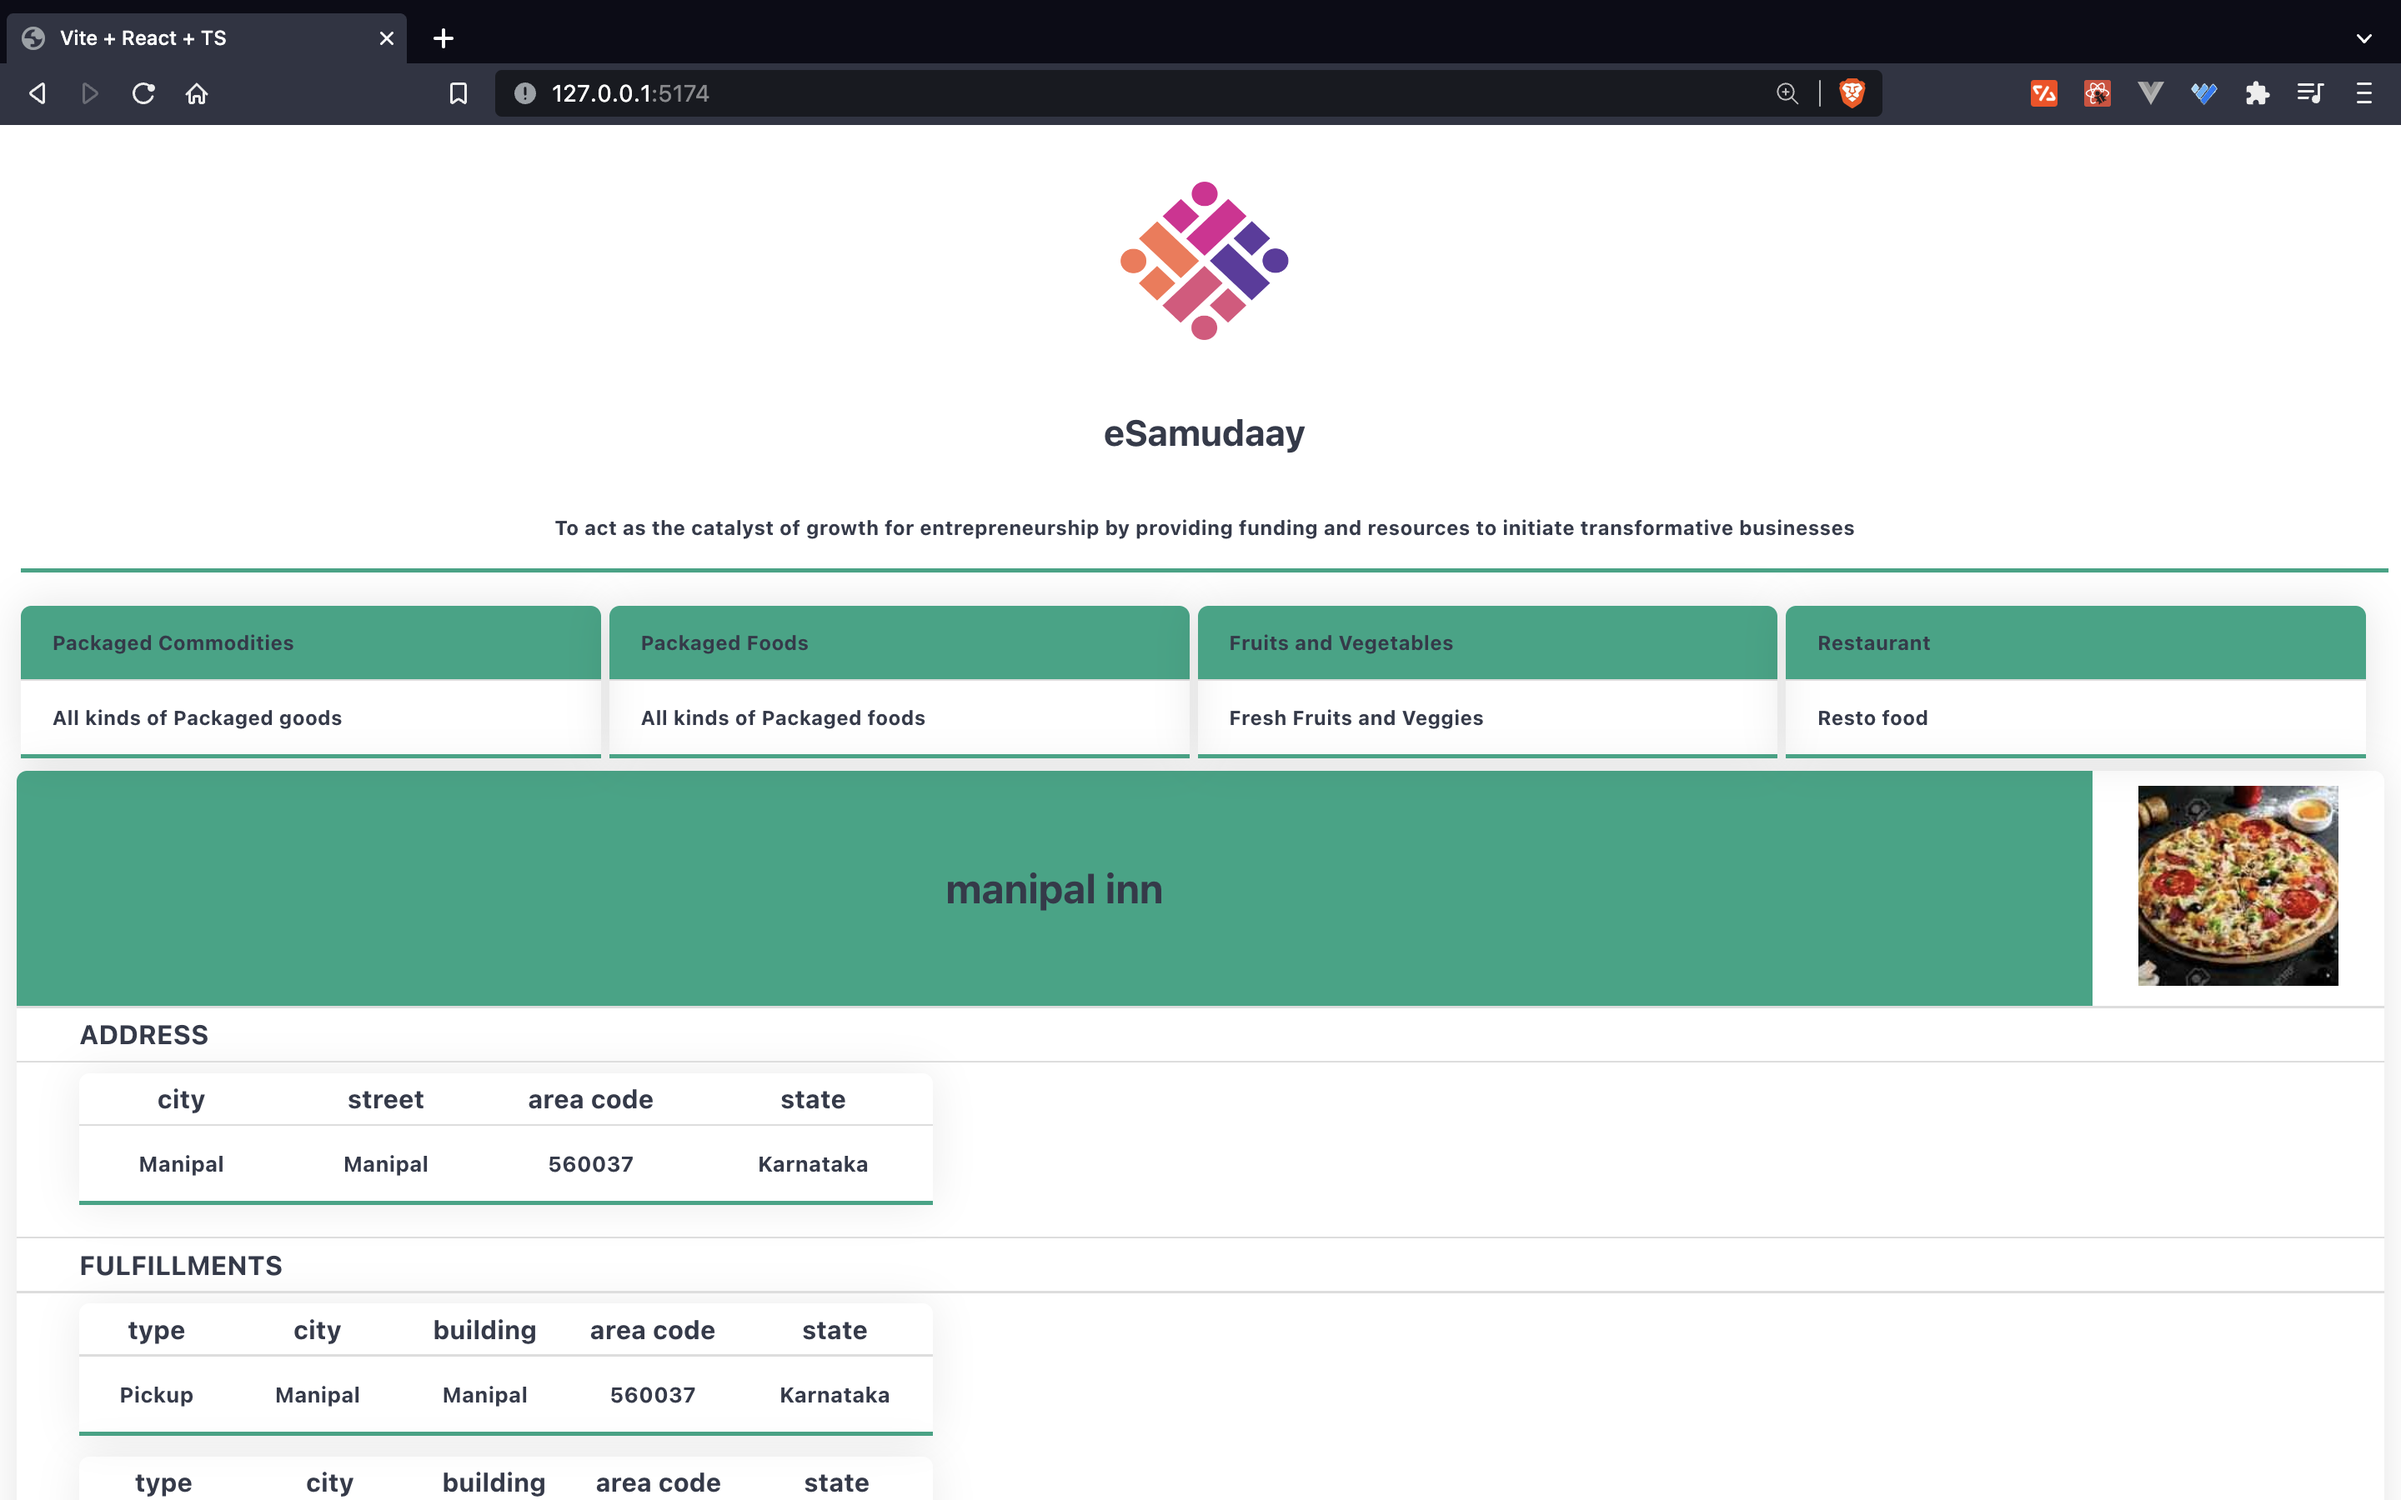
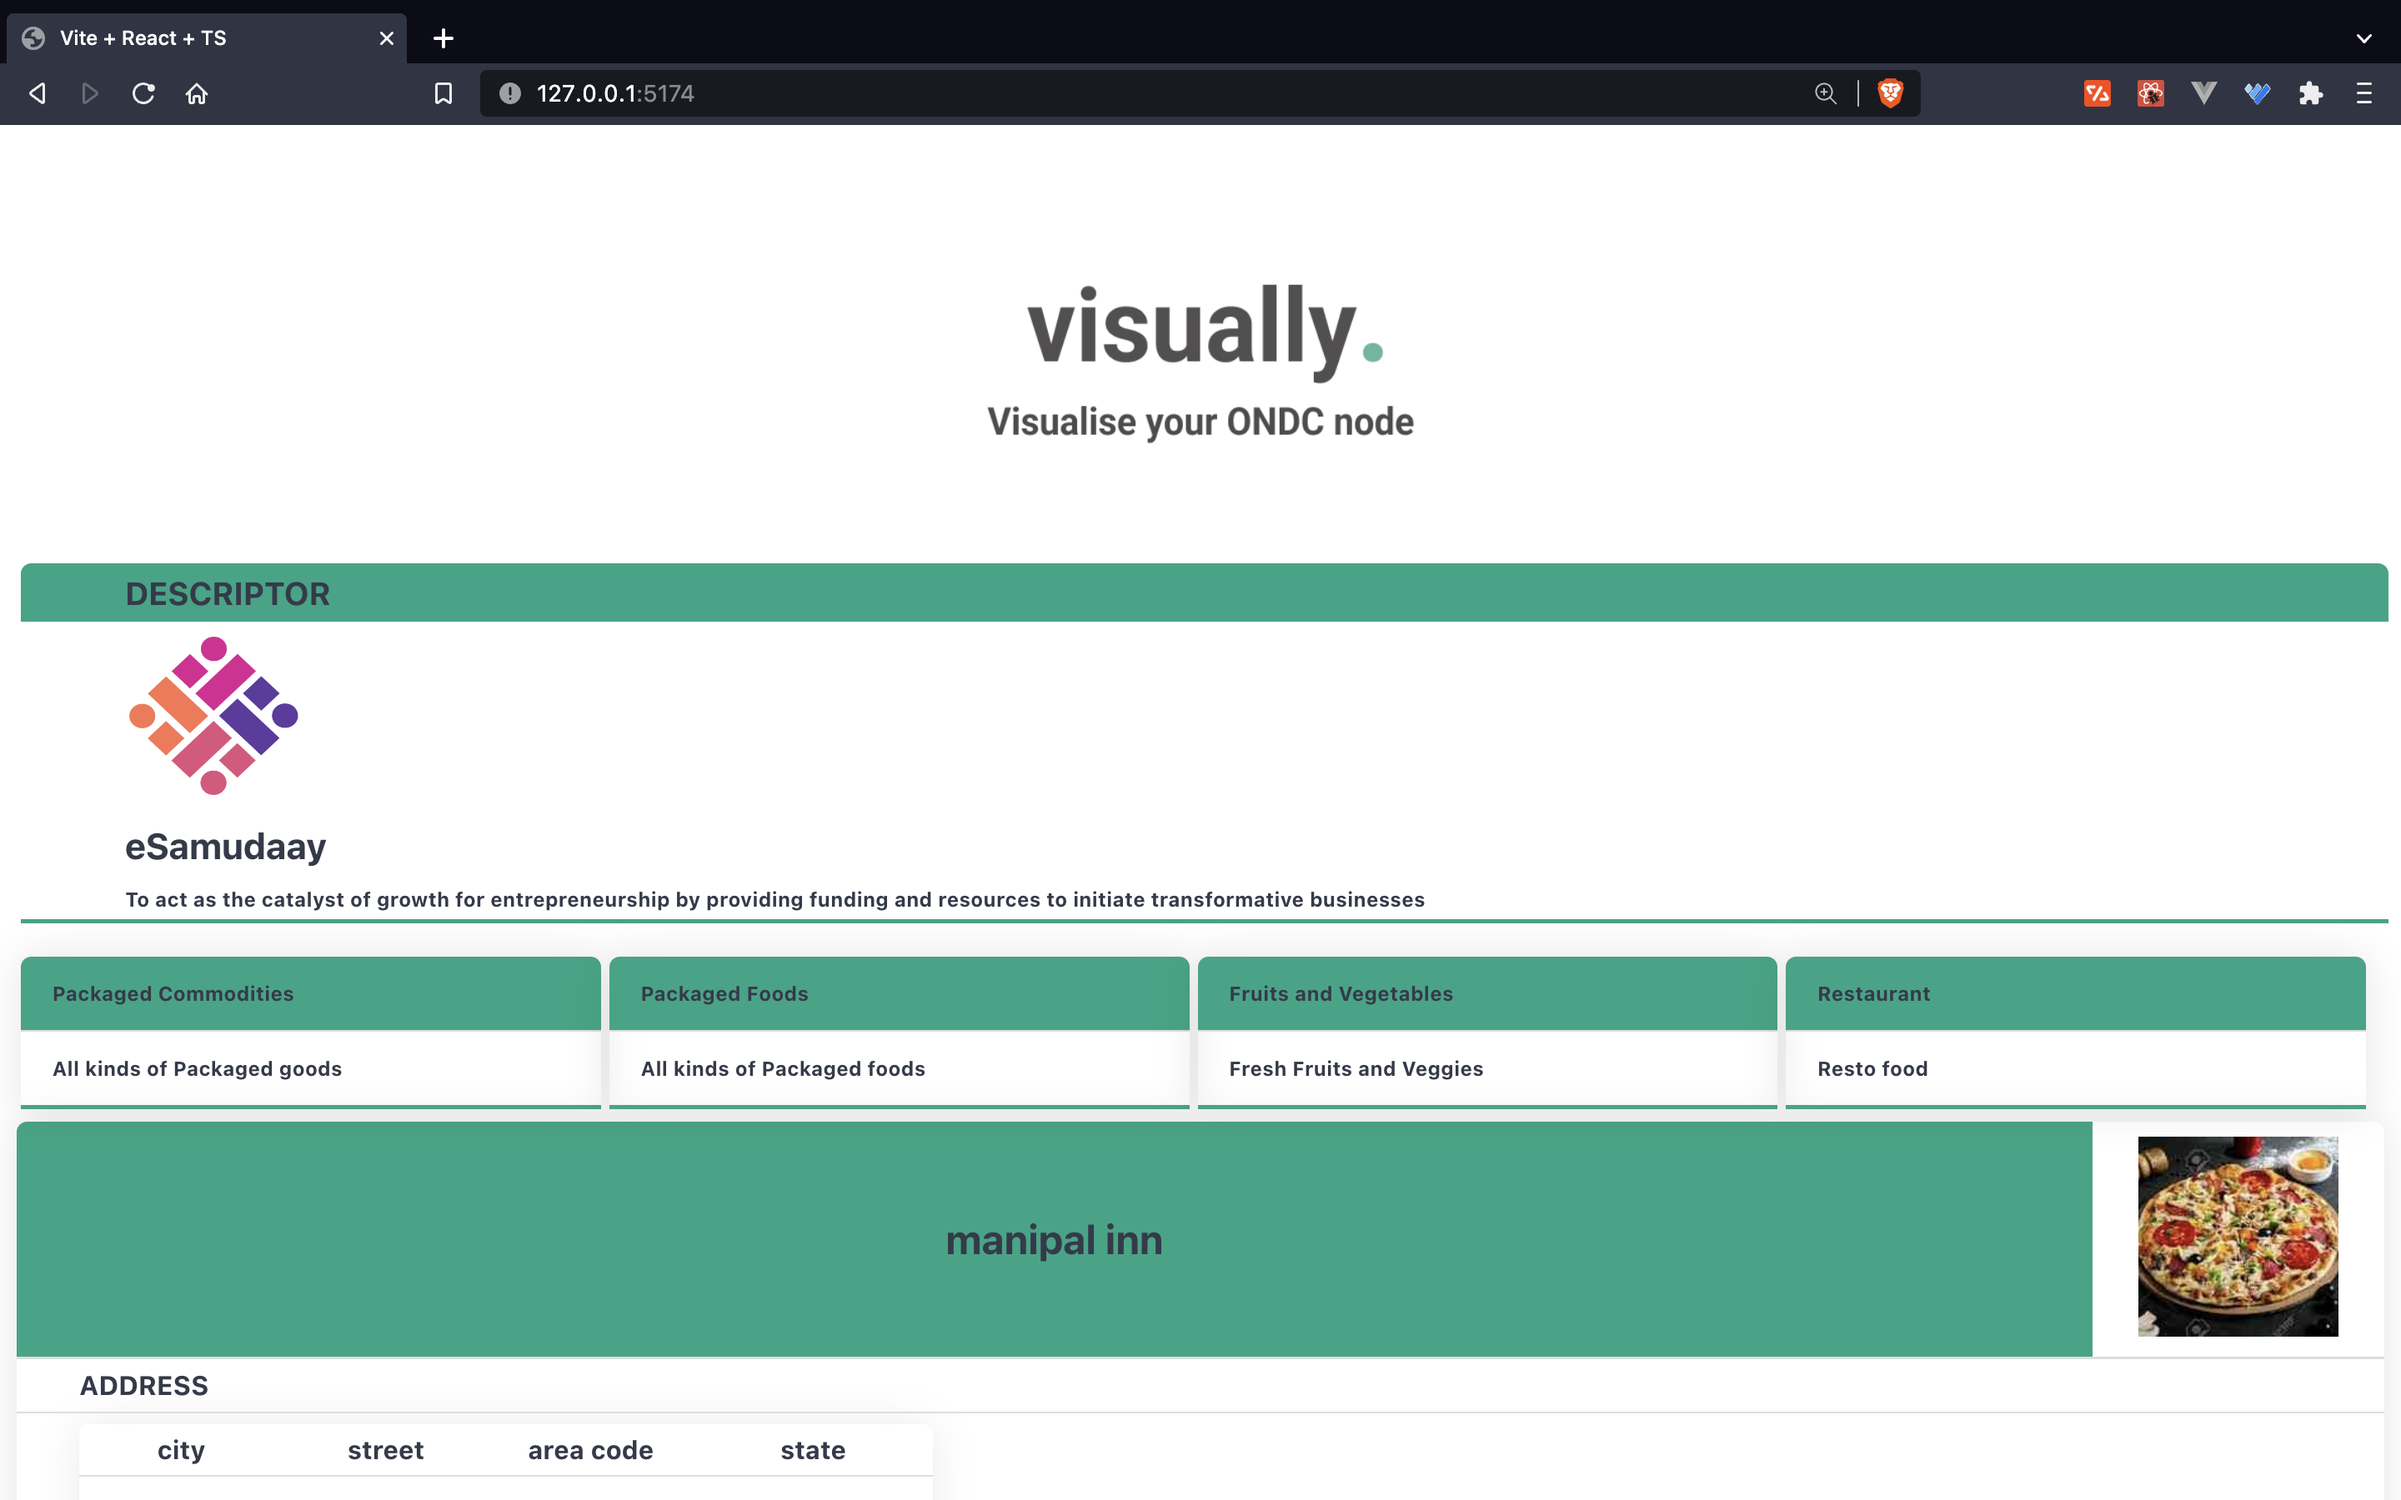
build: add header

diff --git a/src/App.tsx b/src/App.tsx
@@ -1,7 +1,7 @@
 import { useState, useEffect, Fragment } from 'react'
 import './App.css'
 
-import { Categories, Providers, Descriptor } from './components';
+import { Categories, Providers, Descriptor, Header } from './components';
 
 
 
@@ -40,6 +40,8 @@ function App() {
 
   return (
     <Fragment>
+
+      <Header />
       <Descriptor bppDescriptor={bppDescriptor} />
       <Categories bppCategories={bppCategories} />
       <Providers bppProviders={bppProviders} />

diff --git a/src/components/Descriptor.css b/src/components/Descriptor.css
@@ -8,10 +8,14 @@
 }
 
 
-
+.dist-head {
+    font-size: 1.6em;
+    font-weight: bold;
+    background-color: #03a584;
+}
 
 .descriptor-table {
-    text-align: center;
+
     border-collapse: collapse;
     margin: 2px;
     font-size: 0.6em;
@@ -25,7 +29,7 @@
 
 
 .descriptor-table td {
-    padding: 15px 15px;
+    padding: 5px 50px;
 }
 
 .descriptor-table tbody tr:last-of-type {

diff --git a/src/components/descriptor.tsx b/src/components/descriptor.tsx
@@ -14,7 +14,9 @@ let Descriptor = ({ bppDescriptor }) => {
 
 
                 <tbody >
-
+                    <tr>
+                        <td className="dist-head">DESCRIPTOR</td>
+                    </tr>
                     <tr>
                         <td><img src={bppDescriptor.symbol} alt="symbol" width="85" height="80" /></td>
 

diff --git a/src/components/header.tsx b/src/components/header.tsx
@@ -1,0 +1,16 @@
+import React, { Fragment } from 'react';
+import './Header.css';
+import logo from '../assets/logo.png';
+
+let Header = () => {
+    return (<Fragment>
+        <div className='logo'>
+            <img src={logo} alt="logo" width="220" height="200" />
+
+        </div>
+
+    </Fragment>);
+}
+
+
+export default Header;

diff --git a/src/components/index.ts b/src/components/index.ts
@@ -1,3 +1,4 @@
 export { default as Categories } from './categories';
 export { default as Providers } from './providers';
-export { default as Descriptor } from './descriptor'; 
+export { default as Descriptor } from './descriptor';
+export { default as Header } from './header'; 

diff --git a/src/components/Header.css b/src/components/Header.css
@@ -1,0 +1,5 @@
+.logo {
+    width: 100%;
+    height: 100%;
+    text-align: center;
+}

diff --git a/README.md b/README.md
@@ -1,3 +1,5 @@
 <img src="https://github.com/ankit-v2-1/xe50/blob/main/src/assets/homepage.png" >
 
+<img src="https://github.com/ankit-v2-1/xe50/blob/main/src/assets/discriptor.png" >
+
 <img src="https://github.com/ankit-v2-1/xe50/blob/main/src/assets/provider.png" >
